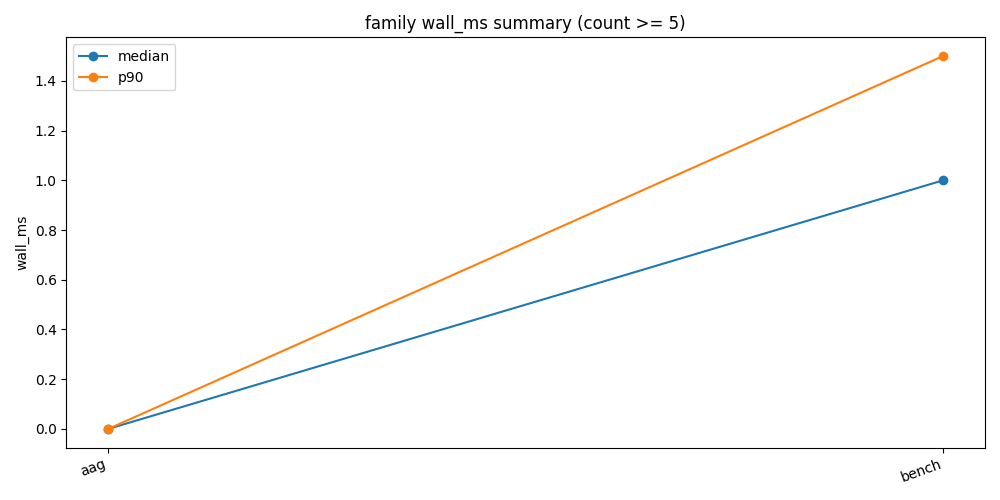
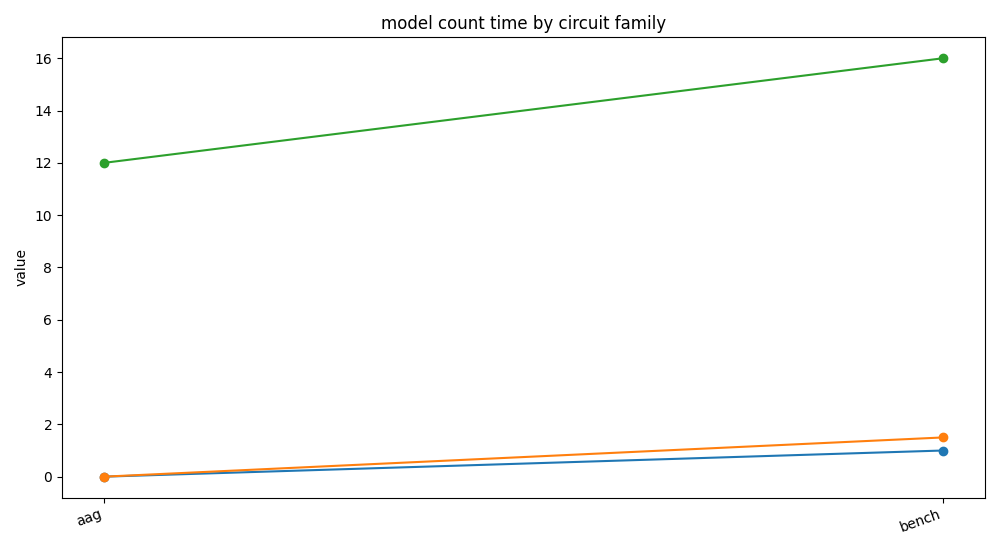
addd graphs

diff --git a/scripts/plot_results.py b/scripts/plot_results.py
@@ -69,6 +69,8 @@ def add_metrics(df: pd.DataFrame, root_hint: Path) -> pd.DataFrame:
     out["cone_frac"] = out["cone_inputs"] / out["aig_inputs"].clip(lower=1)
     out["ands_per_cone_in"] = out["aig_ands"] / out["cone_inputs"].clip(lower=1)
     out["throughput_clauses_per_ms"] = out["cnf_clauses"] / out["wall_ms"].clip(lower=1)
+    # simple structural diversity signal from cone pressure
+    out["diversity_score"] = out["cone_frac"] * out["ands_per_cone_in"]
     out["log_wall_ms"] = np.log10(out["wall_ms"].clip(lower=1))
     out["log_cnf_clauses"] = np.log10(out["cnf_clauses"].clip(lower=1))
     return out
@@ -135,67 +137,21 @@ def plot_time_vs_cnf(ok_df: pd.DataFrame, out_path: Path):
     plt.close()
 
 
-def plot_time_per_call_vs_density(ok_df: pd.DataFrame, out_path: Path):
+def plot_time_vs_cnf_size(ok_df: pd.DataFrame, out_path: Path):
     plt.figure(figsize=(8.5, 5))
     for key, group in ok_df.groupby("family"):
         plt.scatter(
-            group["clause_density"],
-            group["time_per_call_ms"],
+            group["cnf_clauses"],
+            group["wall_ms"],
             s=25,
-            alpha=0.8,
+            alpha=0.75,
             label=str(key),
         )
-    plt.title("time_per_call_ms vs clause_density")
-    plt.xlabel("clause_density")
-    plt.ylabel("time_per_call_ms")
+    plt.title("model count time vs cnf size")
+    plt.xlabel("cnf_clauses")
+    plt.ylabel("wall_ms")
     if len(ok_df["family"].unique()) <= 12:
         plt.legend()
-    plt.tight_layout()
-    plt.savefig(out_path)
-    plt.close()
-
-
-def plot_timeout_rate_by_size(df: pd.DataFrame, out_path: Path):
-    table = (
-        df.groupby(["size_bucket_all", "status"]).size().unstack(fill_value=0).sort_index()
-    )
-    frac = table.div(table.sum(axis=1).replace(0, 1), axis=0)
-    plt.figure(figsize=(10, 4.5))
-    x = np.arange(len(frac.index))
-    bottom = np.zeros(len(frac.index))
-    for col in frac.columns:
-        vals = frac[col].values
-        plt.bar(x, vals, bottom=bottom, label=col)
-        bottom += vals
-    plt.title("status fraction by cnf size bucket")
-    plt.xlabel("cnf size bucket")
-    plt.ylabel("fraction")
-    plt.xticks(x, [str(i) for i in frac.index], rotation=20, ha="right")
-    plt.legend()
-    plt.tight_layout()
-    plt.savefig(out_path)
-    plt.close()
-
-
-def plot_top_slowest(ok_df: pd.DataFrame, out_path: Path):
-    top = ok_df.sort_values("wall_ms", ascending=False).head(20).copy()
-    if top.empty:
-        plt.figure(figsize=(8, 4))
-        plt.title("top 20 slowest instances")
-        plt.tight_layout()
-        plt.savefig(out_path)
-        plt.close()
-        return
-    top["label"] = top["family"].astype(str) + "/" + top["path"].map(
-        lambda p: Path(str(p).replace("\\", "/")).stem
-    ) + " c=" + top["cnf_clauses"].fillna(0).astype(int).astype(str)
-    plt.figure(figsize=(11, 6.5))
-    y = np.arange(len(top))
-    plt.barh(y, top["wall_ms"].values)
-    plt.yticks(y, top["label"].values)
-    plt.gca().invert_yaxis()
-    plt.title("top 20 slowest instances by wall_ms")
-    plt.xlabel("wall_ms")
     plt.tight_layout()
     plt.savefig(out_path)
     plt.close()
@@ -213,46 +169,46 @@ def plot_family_summary(ok_df: pd.DataFrame, out_path: Path, min_n: int = 5):
         plt.savefig(out_path)
         plt.close()
         return
-    plt.figure(figsize=(10, 5))
+    plt.figure(figsize=(10, 5.5))
     x = np.arange(len(agg))
-    plt.plot(x, agg["median"], marker="o", label="median")
-    plt.plot(x, agg["p90"], marker="o", label="p90")
+    plt.plot(x, agg["median"], marker="o", label="median wall_ms")
+    plt.plot(x, agg["p90"], marker="o", label="p90 wall_ms")
+    plt.plot(x, agg["count"], marker="o", label="count")
     plt.xticks(x, agg["family"], rotation=20, ha="right")
-    plt.title("family wall_ms summary (count >= 5)")
-    plt.ylabel("wall_ms")
-    plt.legend()
+    plt.title("model count time by circuit family")
+    plt.ylabel("value")
     plt.tight_layout()
     plt.savefig(out_path)
     plt.close()
 
 
-def plot_regime_heatmap(ok_df: pd.DataFrame, out_path: Path):
-    d = ok_df.dropna(subset=["cnf_clauses", "clause_density", "wall_ms"]).copy()
+def plot_regime_density_diversity(ok_df: pd.DataFrame, out_path: Path):
+    d = ok_df.dropna(subset=["clause_density", "time_per_call_ms", "diversity_score"]).copy()
     if d.empty:
         plt.figure(figsize=(8, 4))
-        plt.title("median wall_ms by cnf size and density")
+        plt.title("time per solve by density and diversity")
         plt.tight_layout()
         plt.savefig(out_path)
         plt.close()
         return
-    x_bins = np.unique(np.quantile(d["cnf_clauses"], np.linspace(0.0, 1.0, 6)))
-    y_bins = np.unique(np.quantile(d["clause_density"], np.linspace(0.0, 1.0, 6)))
+    x_bins = np.unique(np.quantile(d["clause_density"], np.linspace(0.0, 1.0, 6)))
+    y_bins = np.unique(np.quantile(d["diversity_score"], np.linspace(0.0, 1.0, 6)))
     if len(x_bins) < 2:
-        x_bins = np.array([d["cnf_clauses"].min(), d["cnf_clauses"].max() + 1.0])
+        x_bins = np.array([d["clause_density"].min(), d["clause_density"].max() + 1.0])
     if len(y_bins) < 2:
-        y_bins = np.array([d["clause_density"].min(), d["clause_density"].max() + 1.0])
-    d["xb"] = pd.cut(d["cnf_clauses"], bins=x_bins, include_lowest=True, duplicates="drop")
-    d["yb"] = pd.cut(d["clause_density"], bins=y_bins, include_lowest=True, duplicates="drop")
-    piv = d.pivot_table(index="yb", columns="xb", values="wall_ms", aggfunc="median")
+        y_bins = np.array([d["diversity_score"].min(), d["diversity_score"].max() + 1.0])
+    d["xb"] = pd.cut(d["clause_density"], bins=x_bins, include_lowest=True, duplicates="drop")
+    d["yb"] = pd.cut(d["diversity_score"], bins=y_bins, include_lowest=True, duplicates="drop")
+    piv = d.pivot_table(index="yb", columns="xb", values="time_per_call_ms", aggfunc="median")
     arr = piv.values
     plt.figure(figsize=(9, 5))
     im = plt.imshow(arr, aspect="auto", origin="lower")
-    plt.colorbar(im, label="median wall_ms")
+    plt.colorbar(im, label="median time_per_call_ms")
     plt.xticks(np.arange(len(piv.columns)), [str(c) for c in piv.columns], rotation=20, ha="right")
     plt.yticks(np.arange(len(piv.index)), [str(i) for i in piv.index])
-    plt.xlabel("cnf_clauses bucket")
-    plt.ylabel("clause_density bucket")
-    plt.title("median wall_ms by size-density regime")
+    plt.xlabel("clause_density bucket")
+    plt.ylabel("diversity_score bucket")
+    plt.title("time per solve by density and diversity")
     plt.tight_layout()
     plt.savefig(out_path)
     plt.close()
@@ -333,12 +289,9 @@ def main():
 
     plot_time_hist(ok_df, out_dir / "time_hist.png")
     plot_solve_calls_hist(ok_df, out_dir / "solve_calls_hist.png")
-    plot_time_vs_cnf(ok_df, out_dir / "time_vs_cnf.png")
-    plot_time_per_call_vs_density(ok_df, out_dir / "time_per_call_vs_density.png")
-    plot_timeout_rate_by_size(df, out_dir / "timeout_rate_by_size.png")
-    plot_top_slowest(ok_df, out_dir / "top_slowest.png")
+    plot_time_vs_cnf_size(ok_df, out_dir / "time_vs_cnf.png")
     plot_family_summary(ok_df, out_dir / "family_summary.png", min_n=5)
-    plot_regime_heatmap(ok_df, out_dir / "regime_heatmap.png")
+    plot_regime_density_diversity(ok_df, out_dir / "regime_heatmap.png")
     write_report(df, ok_df, out_dir / "report.md")
 
 

diff --git a/README.md b/README.md
@@ -69,49 +69,37 @@ The merged benchmark has 30 instances. The median wall time is 0 ms. The p90 wal
 
 ## Figures
 
-The figures are generated from `results/results.csv` and `docs/fig/report.md`.
+`wall_ms` is end-to-end wall clock time in milliseconds for one benchmark row. `solve_calls` is the number of SAT solves used by the counting loop for that row. `time_per_call_ms` is `wall_ms / max(solve_calls, 1)`. `clause_density` is `cnf_clauses / max(cnf_vars, 1)`. `diversity_score` is `cone_frac * ands_per_cone_in`, where `cone_frac = cone_inputs / max(aig_inputs, 1)` and `ands_per_cone_in = aig_ands / max(cone_inputs, 1)`.
+
+The figures are generated from `results/results.csv`. The script also writes `docs/fig/report.md` with numeric summaries used in this section.
 
 ```bash
 python scripts/plot_results.py --csv results/results.csv --out_dir docs/fig
 ```
 
-`docs/fig/time_hist.png` shows wall time by CNF size bucket. This plot answers where lag appears by size regime and reports median and p90 in the title.
+This figure shows wall time by CNF size bucket. It highlights how latency changes with formula size and reports median and p90 directly in the title.
 
 ![time histogram](docs/fig/time_hist.png)
 
-`docs/fig/solve_calls_hist.png` shows solve call distribution by the same size buckets. This plot separates oracle intensity from per-call cost.
+This figure shows solve call distribution by the same size buckets. It separates loop intensity from per-call latency.
 
 ![solve calls histogram](docs/fig/solve_calls_hist.png)
 
-`docs/fig/time_vs_cnf.png` shows wall time versus CNF clauses with mode coloring and a binned median trend line.
+This figure shows model count time versus CNF size with family coloring. It shows where larger formulas start to lag.
 
 ![time vs cnf clauses](docs/fig/time_vs_cnf.png)
 
-`docs/fig/time_per_call_vs_density.png` shows per-call latency against clause density to highlight expensive solve regions.
-
-![time per call vs density](docs/fig/time_per_call_vs_density.png)
-
-`docs/fig/timeout_rate_by_size.png` shows status fractions by size bucket for failure concentration analysis.
-
-![timeout rate by size](docs/fig/timeout_rate_by_size.png)
-
-`docs/fig/top_slowest.png` shows the slowest instances with family and CNF size labels.
-
-![top slowest instances](docs/fig/top_slowest.png)
-
-`docs/fig/family_summary.png` shows median and p90 wall time by inferred family for families with at least five rows.
+This figure shows model count time by circuit characteristics. It reports median and p90 by inferred family for families with enough rows.
 
 ![family summary](docs/fig/family_summary.png)
 
-`docs/fig/regime_heatmap.png` shows median wall time over a 2D regime grid of CNF size and clause density.
+This figure shows performance regime by vars-per-clauses and diversity. Each cell is a median `time_per_call_ms` over a density and diversity bucket.
 
 ![regime heatmap](docs/fig/regime_heatmap.png)
 
-The report values are dataset_rows=30, ok_rows=28, timeout_rows=0, median_wall_ms_ok=0.500, and p90_wall_ms_ok=1.000. The largest size bucket is (6.5, 11.0], with largest_bucket_median_wall_ms_ok=1.000 and largest_bucket_timeout_rate=0.000.
+The current report values are dataset_rows=30, ok_rows=28, timeout_rows=0, median_wall_ms_ok=0.500, and p90_wall_ms_ok=1.000. The largest size bucket is (6.5, 11.0], with largest_bucket_median_wall_ms_ok=1.000 and largest_bucket_timeout_rate=0.000.
 
-Interpretation from the report and figures is that lag concentrates in the largest CNF bucket by wall time, timeout concentration is not present in this sample, time_per_call grows with clause_density in the upper-density region, and the aag family has lower median wall time than the bench family on this run.
-
-The required figure paths are `docs/fig/time_hist.png`, `docs/fig/solve_calls_hist.png`, and `docs/fig/time_vs_cnf.png`.
+Interpretation from this run is that lag appears in the largest CNF bucket by wall time. Timeout concentration is not present in this sample. Per-solve cost rises in higher density and higher diversity regions. The family summary shows lower median wall time for `aag` than `bench` in this dataset.
 
 ## References
 
